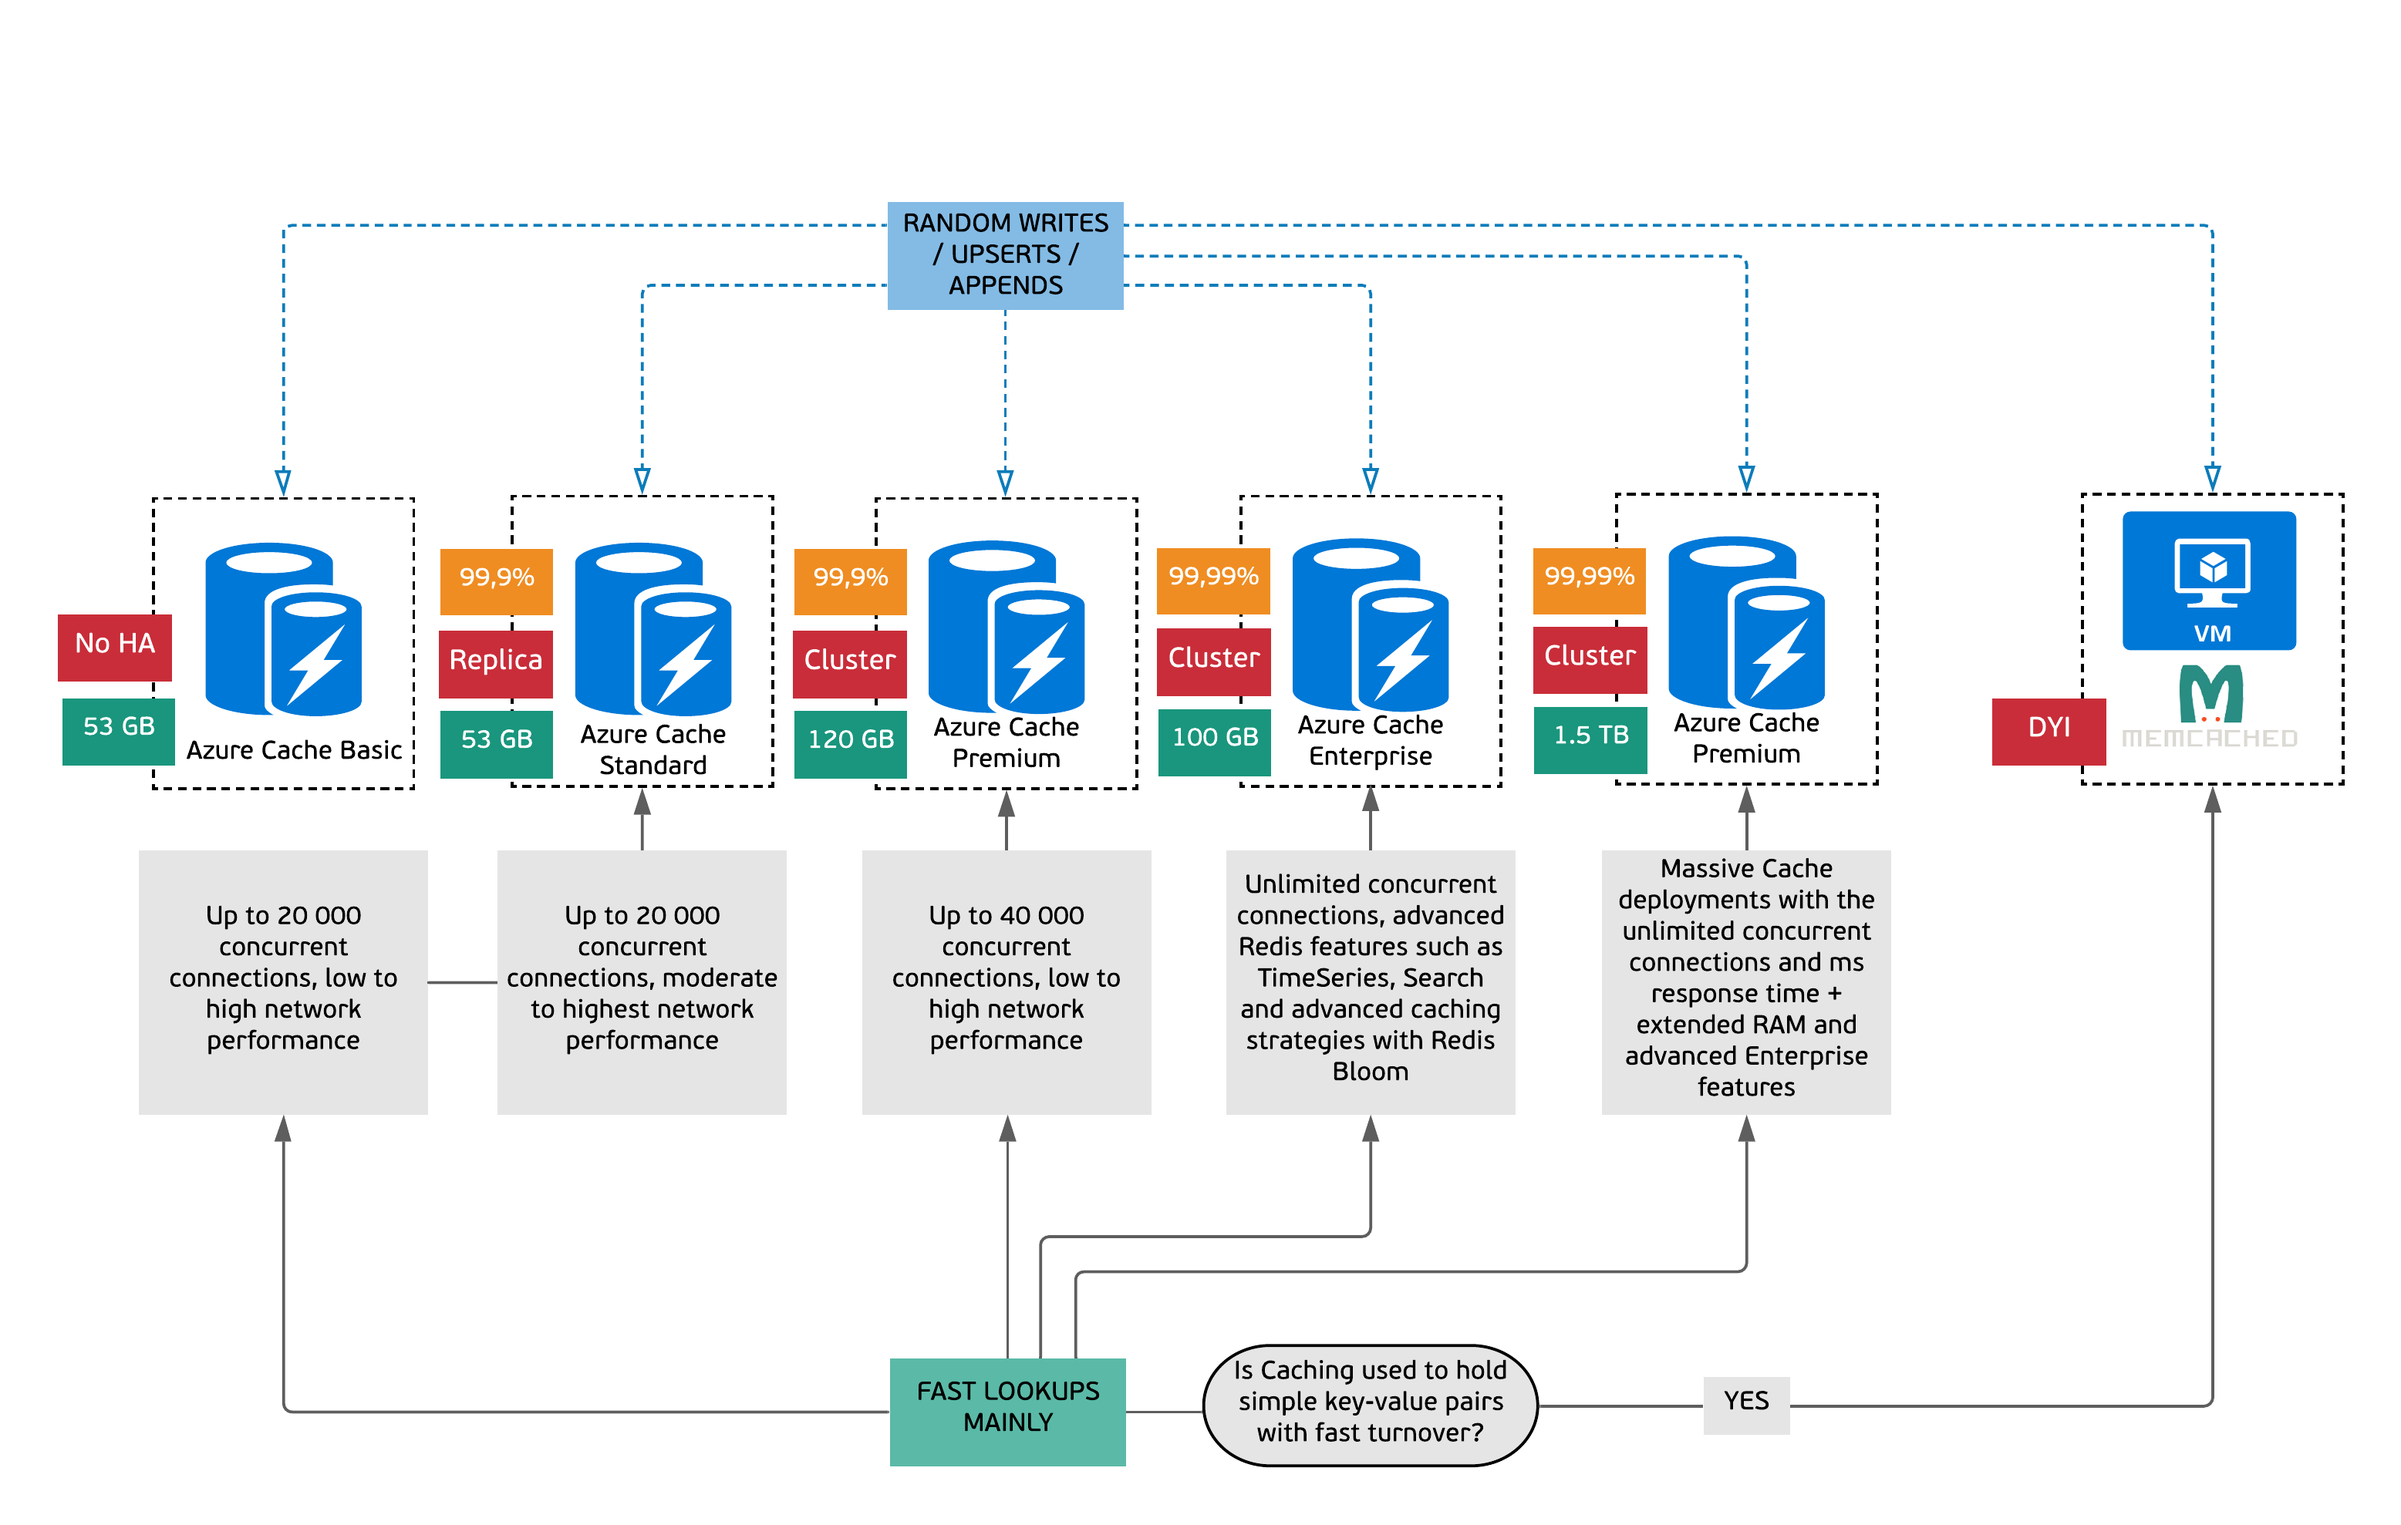
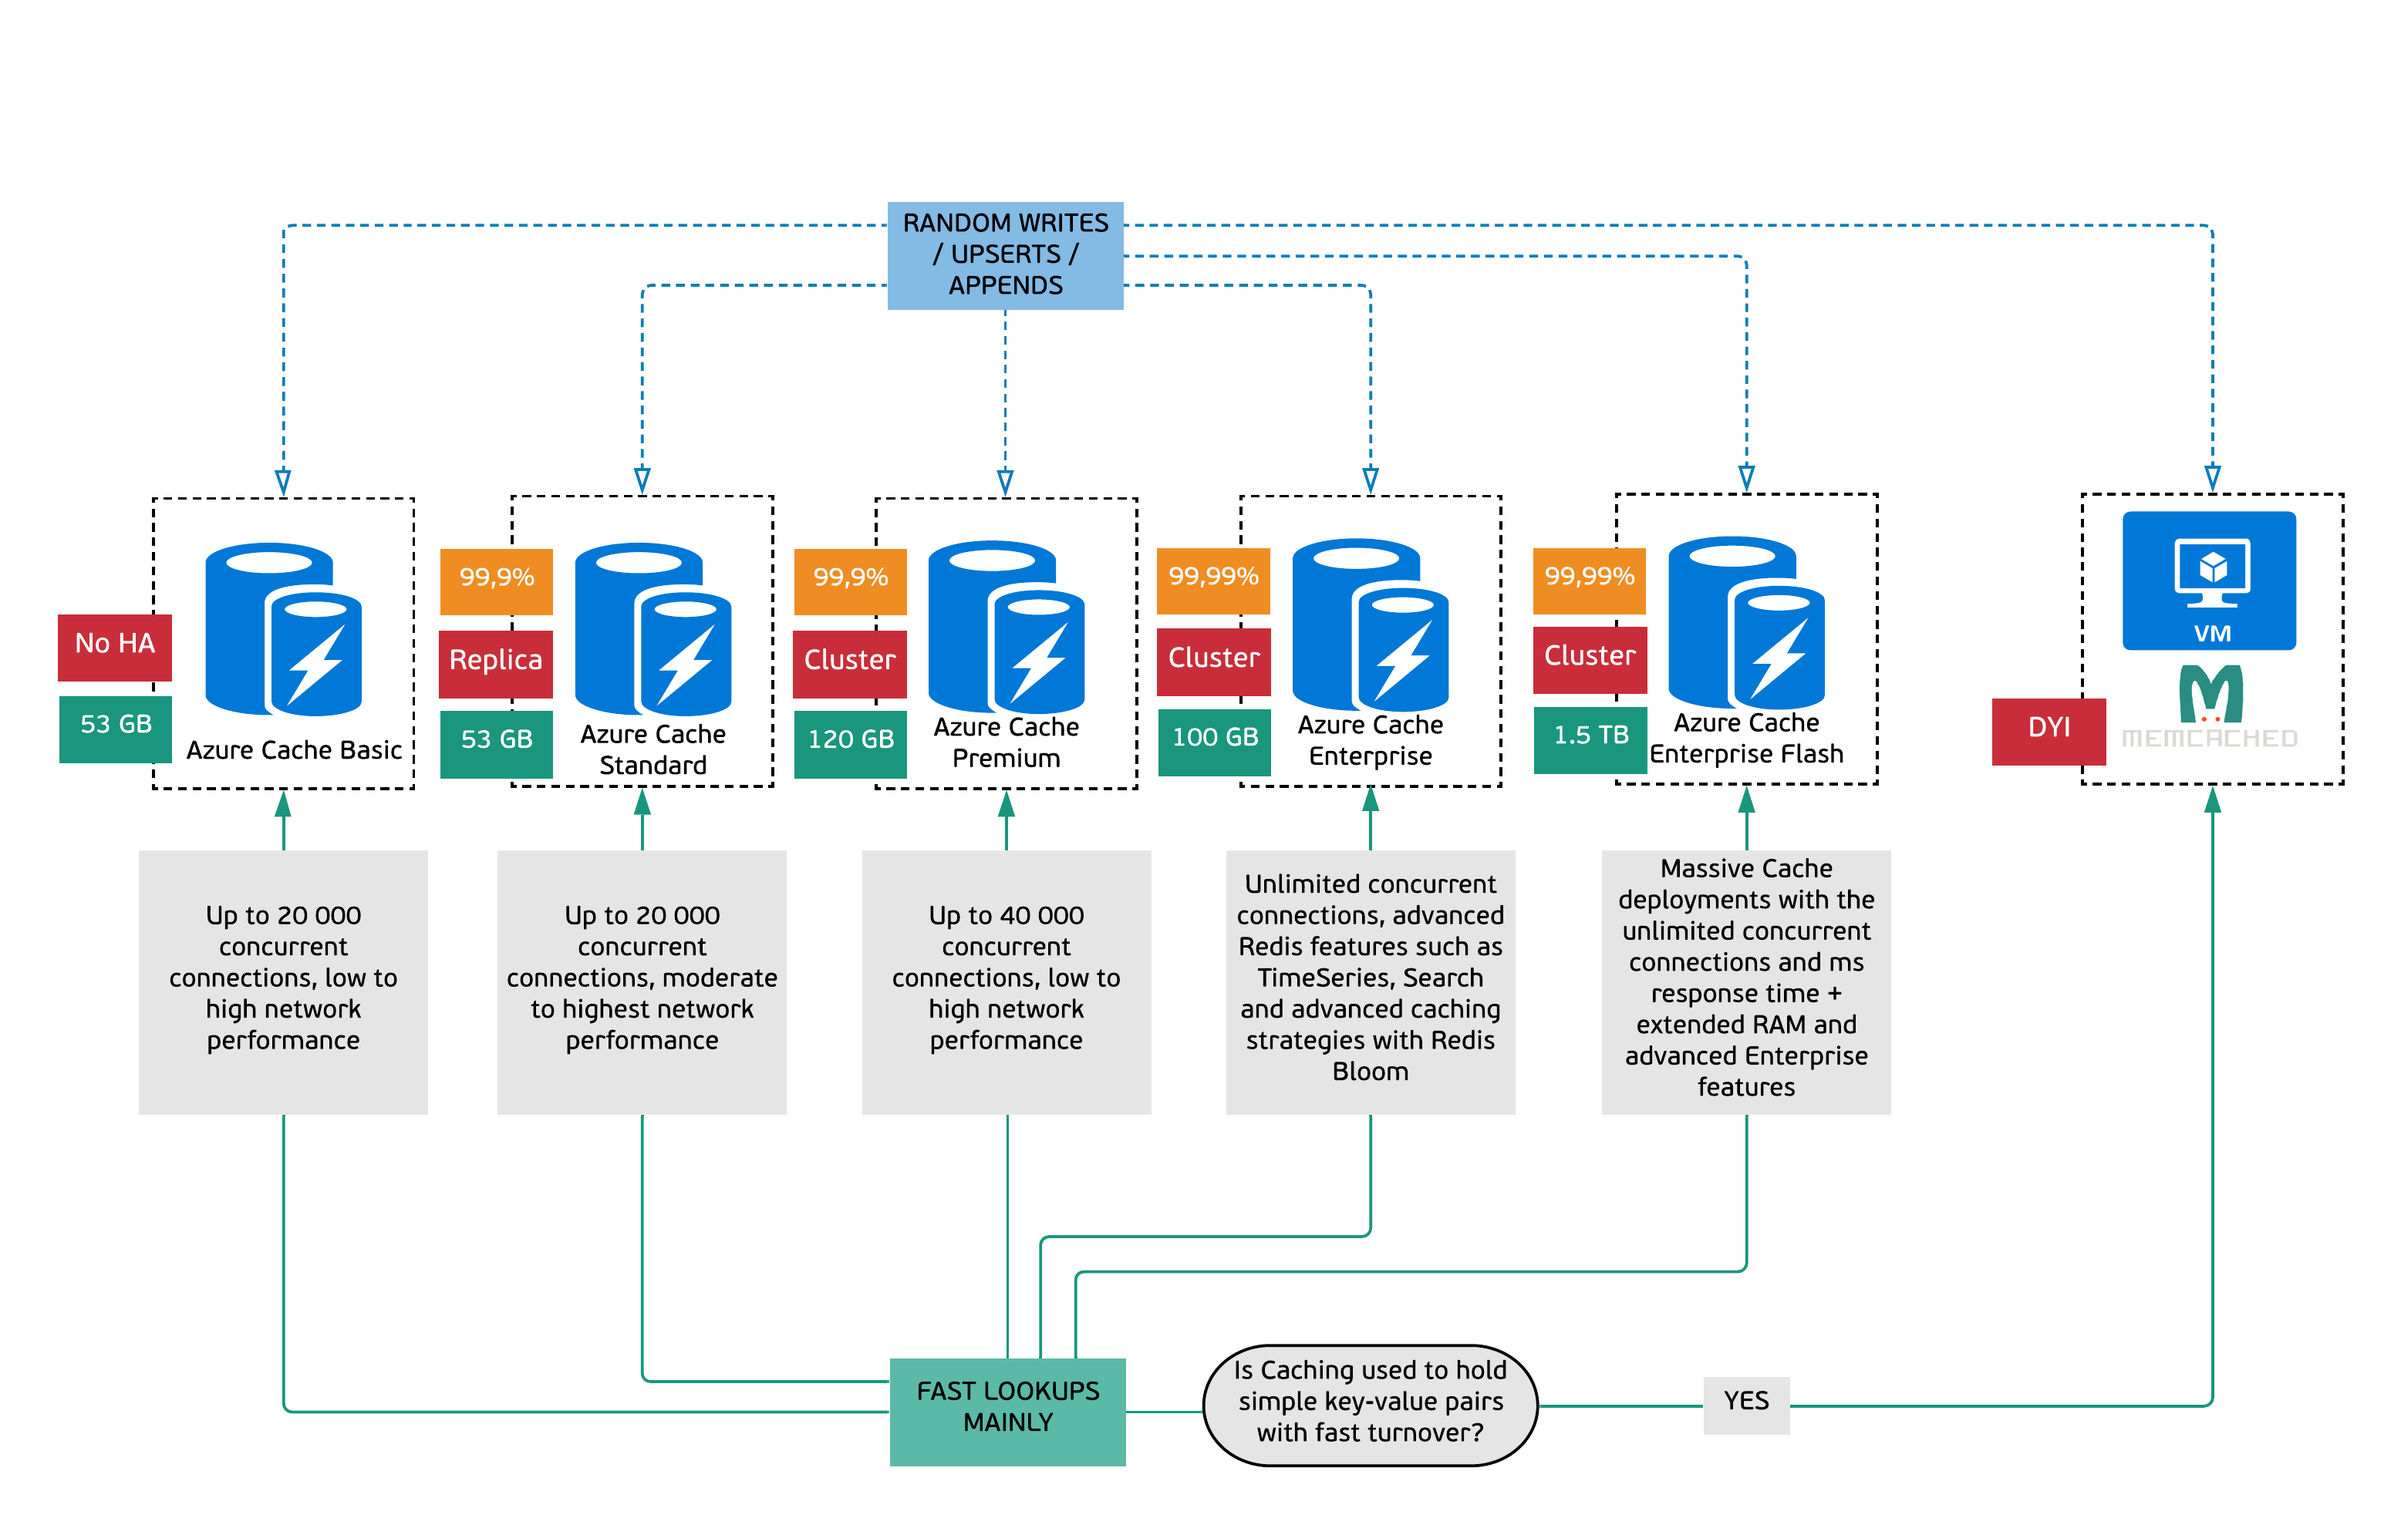
image map for redis + some minor fixes

Changed region(s): [[0.6855, 0.4934, 0.7478, 0.5243], [0.0312, 0.4626, 0.0623, 0.4934]]

diff --git a/html/redis.html b/html/redis.html
@@ -14,7 +14,7 @@
 
     <link rel = "stylesheet"
          type = "text/css"
-         href = "/css/albero.css" />
+         href = "css/albero.css" />
   </head>
   <body>
     <div class="topnav">
@@ -26,6 +26,28 @@
           <li><a href="https://github.com/albero-azure/albero/issues">Contact / Feedback</a></li>
         </ul> 
     </div> 
-    <img class="center-fit" src="/images/DTRedis.png" alt="Redis Decision Tree" style="min-width: 30%" />
+    <img src="/images/DTRedis.png" alt="Albero Main Decision Tree Caching" style="min-width: 30%" usemap="#map" />
+    <map name="map">
+      <area shape="rect" coords="67, 897, 230, 999" alt="Redis Basic RAM" href="https://azure.microsoft.com/en-us/pricing/details/cache/" />
+      <area shape="rect" coords="65, 790, 230, 887" alt="Redis Basic HA" href="https://azure.microsoft.com/en-us/pricing/details/cache/"  />
+
+      <area shape="rect" coords="565, 917, 721, 1015" alt="Redis Standard RAM" href="https://azure.microsoft.com/en-us/pricing/details/cache/" />
+      <area shape="rect" coords="563, 810, 720, 909" alt="Redis Standard HA" href="https://azure.microsoft.com/en-us/pricing/details/cache/" />
+      <area shape="rect" coords="567, 701, 722, 799" alt="Redis Standard SLA" href="https://azure.microsoft.com/en-us/pricing/details/cache/" />
+
+      <area shape="rect" coords="1025, 916, 1183, 1013" alt="Redis Premiun RAM" href="https://azure.microsoft.com/en-us/pricing/details/cache/" />
+      <area shape="rect" coords="1022, 812, 1180, 910" alt="Redis Premium HA" href="https://azure.microsoft.com/en-us/pricing/details/cache/" />
+      <area shape="rect" coords="1023, 705, 1183, 806" alt="Redis Premium SLA" href="https://azure.microsoft.com/en-us/pricing/details/cache/" />
+
+      <area shape="rect" coords="1494, 914, 1658, 1013" alt="Redis Enterprise RAM" href="https://azure.microsoft.com/en-us/pricing/details/cache/" />
+      <area shape="rect" coords="1496, 808, 1654, 909" alt="Redis Enterprise HA" href="https://azure.microsoft.com/en-us/pricing/details/cache/" />
+      <area shape="rect" coords="1493, 704, 1655, 804" alt="Redis Enterprise SLA" href="https://azure.microsoft.com/en-us/pricing/details/cache/" />
+
+      <area shape="rect" coords="1982, 915, 2146, 1008" alt="Redis Enterprise Flash RAM" href="https://azure.microsoft.com/en-us/pricing/details/cache/" />
+      <area shape="rect" coords="1982, 806, 2142, 905" alt="Redis Enterprise Flash HA" href="https://azure.microsoft.com/en-us/pricing/details/cache/" />
+      <area shape="rect" coords="1981, 704, 2139, 800" alt="Redis Enterprise Flash SLA" href="https://azure.microsoft.com/en-us/pricing/details/cache/" />
+    </map>
   </body>
 </html>
+
+
